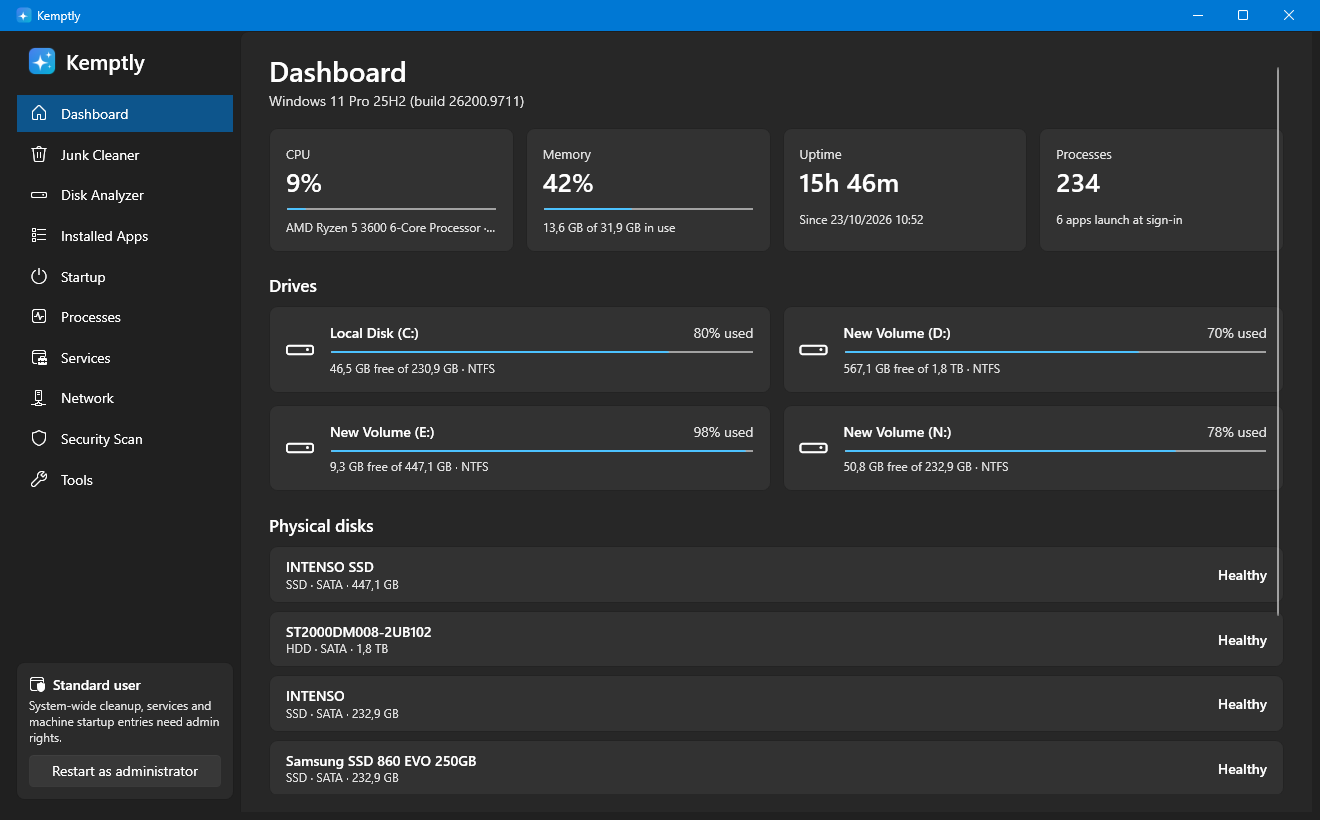
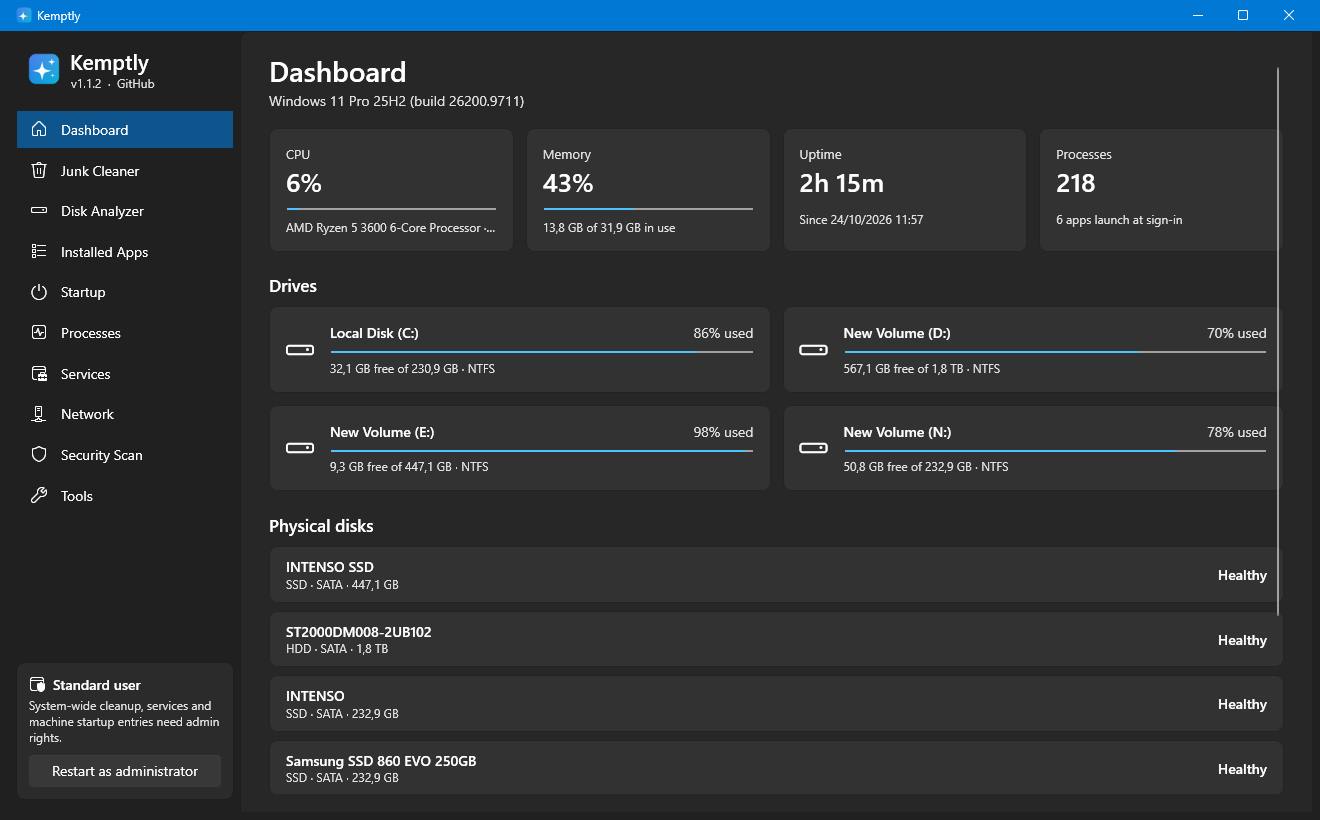
Show version in the sidebar, linking to the GitHub page (v1.1.2)

diff --git a/Kemptly/MainWindow.xaml b/Kemptly/MainWindow.xaml
@@ -12,6 +12,16 @@
             <Setter Property="Padding" Value="10,9"/>
             <Setter Property="Margin" Value="0,1"/>
         </Style>
+        <Style x:Key="VersionLink" TargetType="Hyperlink">
+            <Setter Property="Foreground" Value="{DynamicResource TextFillColorSecondaryBrush}"/>
+            <Setter Property="TextDecorations" Value="{x:Null}"/>
+            <Style.Triggers>
+                <Trigger Property="IsMouseOver" Value="True">
+                    <Setter Property="Foreground" Value="{DynamicResource AccentTextFillColorPrimaryBrush}"/>
+                    <Setter Property="TextDecorations" Value="Underline"/>
+                </Trigger>
+            </Style.Triggers>
+        </Style>
     </Window.Resources>
 
     <Grid>
@@ -29,9 +39,18 @@
             </Grid.RowDefinitions>
 
             <StackPanel Orientation="Horizontal" Margin="12,6,0,18">
-                <Image Source="pack://application:,,,/Assets/logo.png" Width="28" Height="28"
-                       RenderOptions.BitmapScalingMode="HighQuality"/>
-                <TextBlock Text="Kemptly" FontSize="21" FontWeight="SemiBold" Margin="10,0,0,0"/>
+                <Image Source="pack://application:,,,/Assets/logo.png" Width="32" Height="32"
+                       RenderOptions.BitmapScalingMode="HighQuality" VerticalAlignment="Center"/>
+                <StackPanel Margin="10,0,0,0" VerticalAlignment="Center">
+                    <TextBlock Text="Kemptly" FontSize="21" FontWeight="SemiBold" LineHeight="24"/>
+                    <!-- Version number; opens the project's GitHub page -->
+                    <TextBlock FontSize="12" Margin="1,0,0,0">
+                        <Hyperlink x:Name="VersionLink" Click="Version_Click" Style="{StaticResource VersionLink}"
+                                   ToolTip="Open Kemptly on GitHub">
+                            <Run x:Name="VersionText" Text="v1.0.0"/><Run Text="  ·  GitHub"/>
+                        </Hyperlink>
+                    </TextBlock>
+                </StackPanel>
             </StackPanel>
 
             <ListBox x:Name="Nav" Grid.Row="1" SelectionChanged="Nav_SelectionChanged"

diff --git a/Kemptly/MainWindow.xaml.cs b/Kemptly/MainWindow.xaml.cs
@@ -1,3 +1,4 @@
+using System.Reflection;
 using System.Windows;
 using System.Windows.Controls;
 using Kemptly.Core;
@@ -8,6 +9,7 @@ namespace Kemptly;
 public partial class MainWindow : Window
 {
     public static MainWindow Instance { get; private set; } = null!;
+    public const string RepoUrl = "https://github.com/phiil-92/Kemptly";
 
     readonly Dictionary<string, UserControl> _pages = new();
 
@@ -15,6 +17,11 @@ public partial class MainWindow : Window
     {
         InitializeComponent();
         Instance = this;
+
+        // "1.1.2+<commit>" -> "v1.1.2"
+        var version = typeof(MainWindow).Assembly
+            .GetCustomAttribute<AssemblyInformationalVersionAttribute>()?.InformationalVersion ?? "";
+        VersionText.Text = "v" + version.Split('+')[0];
 
         if (Admin.IsAdmin)
         {
@@ -82,4 +89,6 @@ public partial class MainWindow : Window
     }
 
     void Elevate_Click(object sender, RoutedEventArgs e) => Admin.RestartElevated();
+
+    void Version_Click(object sender, RoutedEventArgs e) => Shell.Open(RepoUrl);
 }

diff --git a/README.md b/README.md
@@ -95,7 +95,7 @@ Requirements: Windows 10/11 and the [.NET 10 SDK](https://dotnet.microsoft.com/d
 dotnet run --project Kemptly
 
 # Build the installer → dist\Kemptly-Setup.msi (self-contained, no .NET needed on target PCs)
-powershell -ExecutionPolicy Bypass -File build-installer.ps1 -Version 1.1.1
+powershell -ExecutionPolicy Bypass -File build-installer.ps1 -Version 1.1.2
 ```
 
 Releases are built automatically by GitHub Actions: push a tag like `v1.1.0` and the workflow attaches the MSI and portable exe to a new release.
